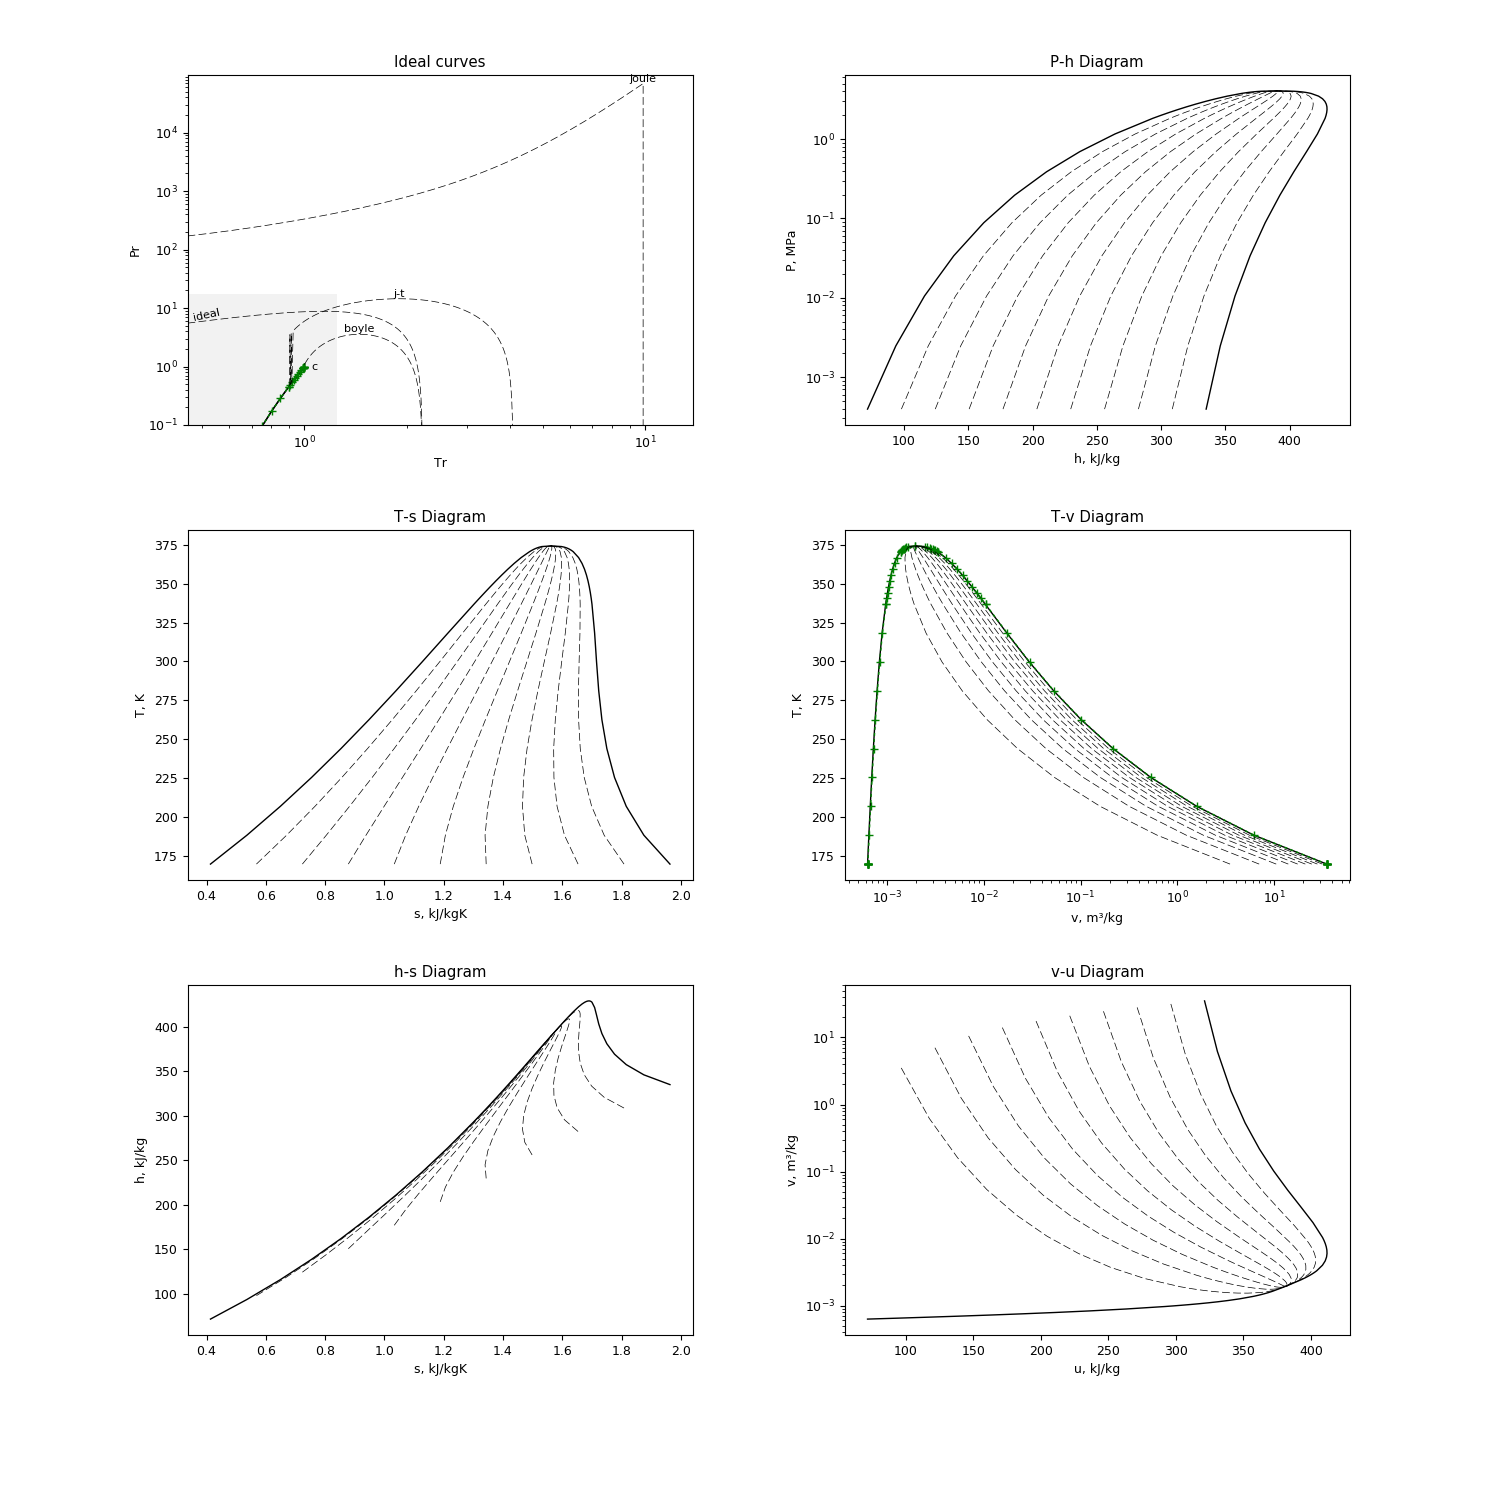
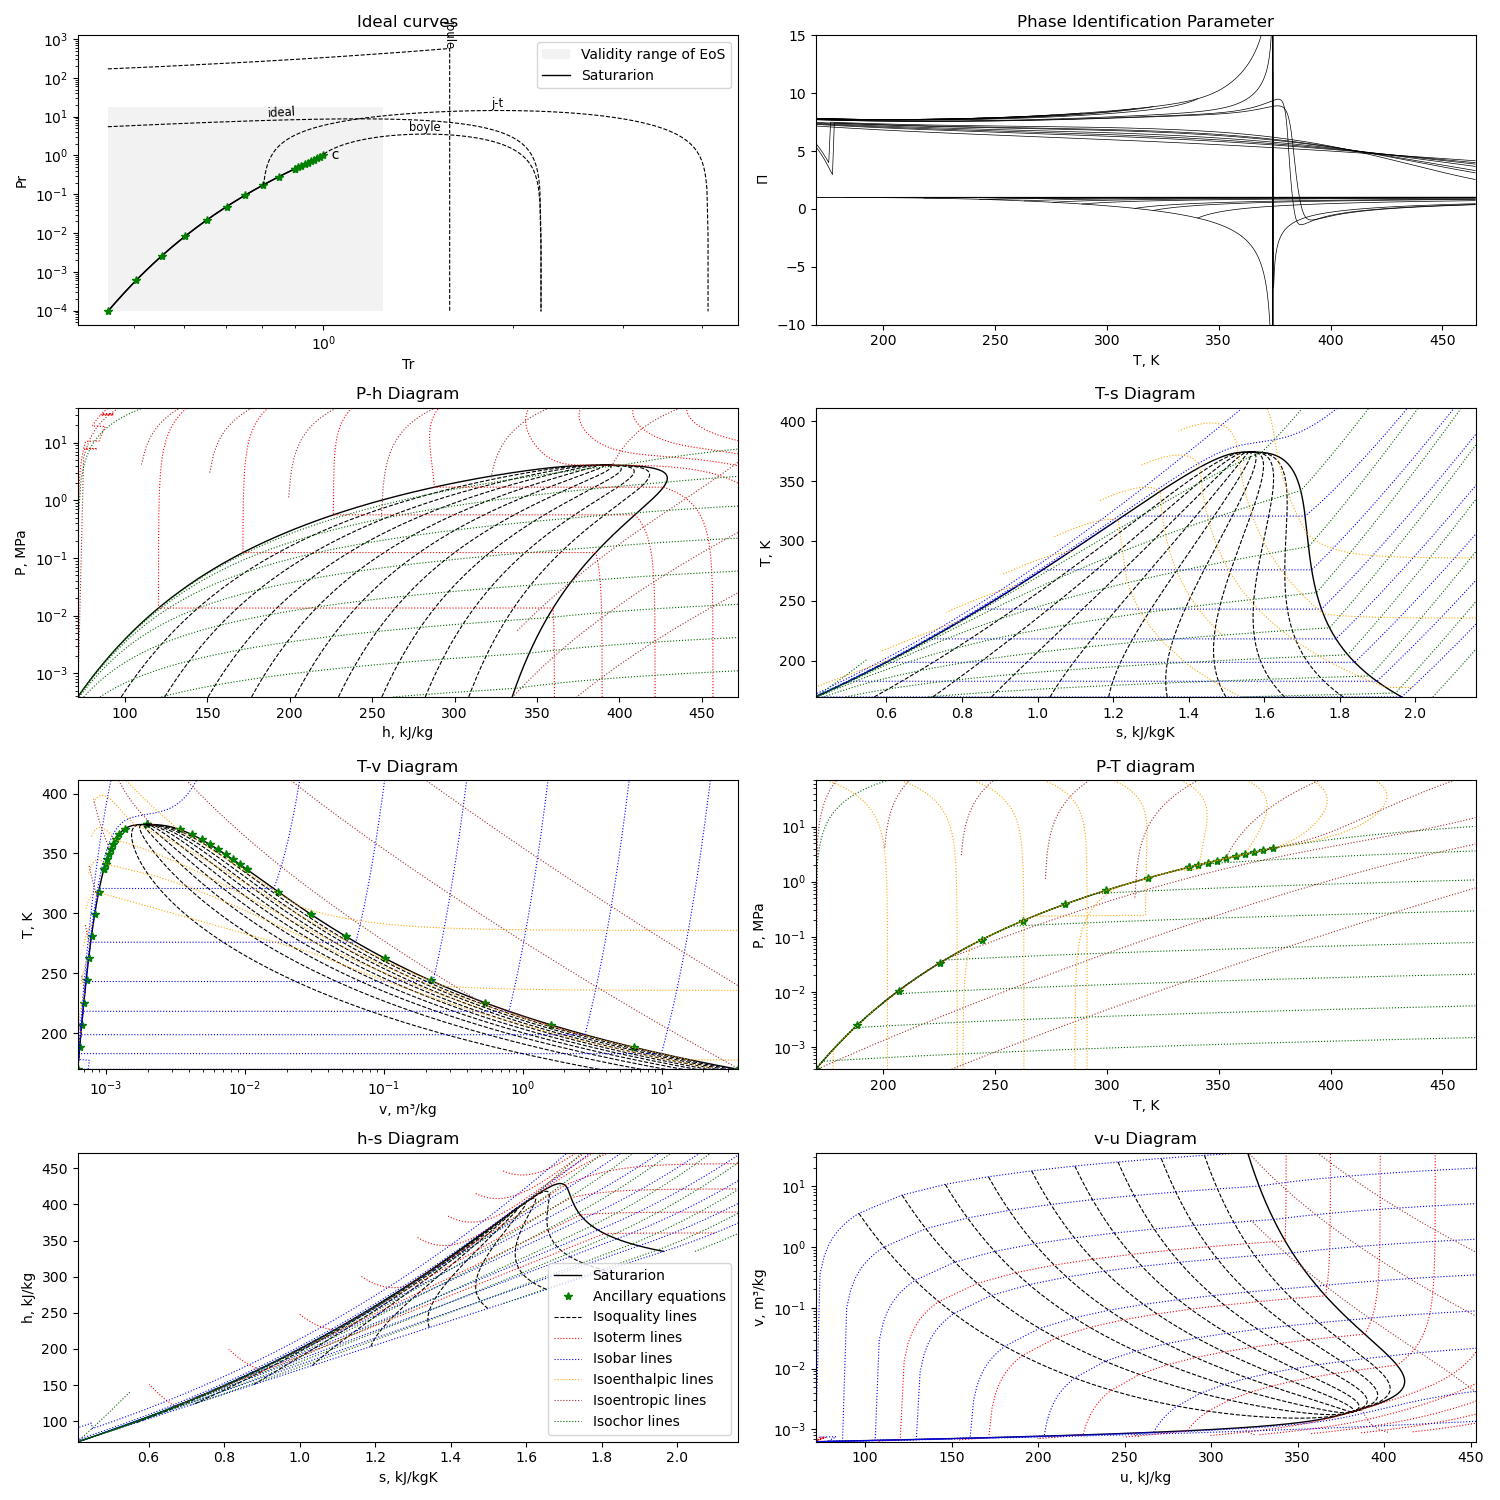
Update refrigerants images for mEoS documentation including PIP plot #3

diff --git a/.script/plotMEoS.py b/.script/plotMEoS.py
@@ -139,7 +139,7 @@ isos_kw = {"ls": ":", "color": "brown", "lw": 0.8}
 
 # Isochor lines to plot
 isov = np.logspace(
-    np.log10(1/fluid()._constants["rhomax"]/fluid.M), np.log10(Vmin.v), 10)
+    np.log10(1/fluid()._constants.get("rhomax", 1000*fluid.M)/fluid.M), np.log10(Vmin.v), 10)
 # isov = np.r_[1e-4, 2e-4, 5e-4, 1e-3, 2e-3, 5e-3, 1e-2, 2e-2, 5e-2, 0.1, 0.2,
 #              0.5, 1, 2, 5, 10, 20, 50]
 isov_kw = {"ls": ":", "color": "darkgreen", "lw": 0.8}
@@ -445,12 +445,12 @@ for P in np.concatenate([isoP, isoP_PIP]):
     if P < fluid.Pc:
         sat_pnt = []
         for x in np.linspace(1, 0.1, 10):
-            if sat_pnt and sat_pnt[-1].status == 1:
+            if sat_pnt and sat_pnt[-1].status == 1 and sat_pnt[-1].T < fluid.Tc:
                 sat_pnt.append(fluid(T=sat_pnt[-1].T, x=x))
             else:
                 sat_pnt.append(fluid(P=P, x=x))
         for x in np.linspace(0.1, 0, 11):
-            if sat_pnt and sat_pnt[-1].status == 1:
+            if sat_pnt and sat_pnt[-1].status == 1 and sat_pnt[-1].T < fluid.Tc:
                 sat_pnt.append(fluid(T=sat_pnt[-1].T, x=x))
             else:
                 sat_pnt.append(fluid(P=P, x=x))
@@ -766,12 +766,12 @@ for curva in ["ideal", "boyle", "joule-thomson", "joule"]:
     pmin = Pmin
     for t in T:
         # Optional limits for ideal curves to avoid false values out of range
-#         if curva in ["ideal", "boyle"]:
-#             if t > 3*fluid.Tc:
-#                 continue
-#         if curva == "joule-thomson":
-#             if t > 4.5*fluid.Tc:
-#                 continue
+        # if curva in ["ideal", "boyle"]:
+        #     if t > 2.1*fluid.Tc:
+        #         continue
+        # if curva == "joule-thomson":
+        #     if t > 3.9*fluid.Tc:
+        #         continue
 
         P = fluid()._IdealCurve(curva, t)
         if P is None or P < 0:

diff --git a/lib/mEoS/R143a.py b/lib/mEoS/R143a.py
@@ -74,7 +74,7 @@ class R143a(MEoS):
         "cp": Fi1,
         "ref": {"Tref": 273.15, "Pref": 1., "ho": 33936.4, "so": 198.961},
 
-        "Tmin": Tt, "Tmax": 650.0, "Pmax": 100000.0, "rhomax": 15.85,
+        "Tmin": Tt, "Tmax": 650.0, "Pmax": 100000.0, "rhomax": 17,
 
         "nr1": [.77736443e1, -.870185e1, -.27779799, .1460922, .89581616e-2],
         "d1": [1, 1, 1, 2, 5],

diff --git a/lib/mEoS/R161.py b/lib/mEoS/R161.py
@@ -71,7 +71,7 @@ class R161(MEoS):
         "cp": Fi1,
         "ref": "IIR",
 
-        "Tmin": Tt, "Tmax": 420.0, "Pmax": 100000.0, "rhomax": 18,
+        "Tmin": 250, "Tmax": 420.0, "Pmax": 100000.0, "rhomax": 18,
 
         "nr1": [0.005145283, -0.001882274, 1.884722, -3.1819965, -0.24432415,
                 0.27792467],
